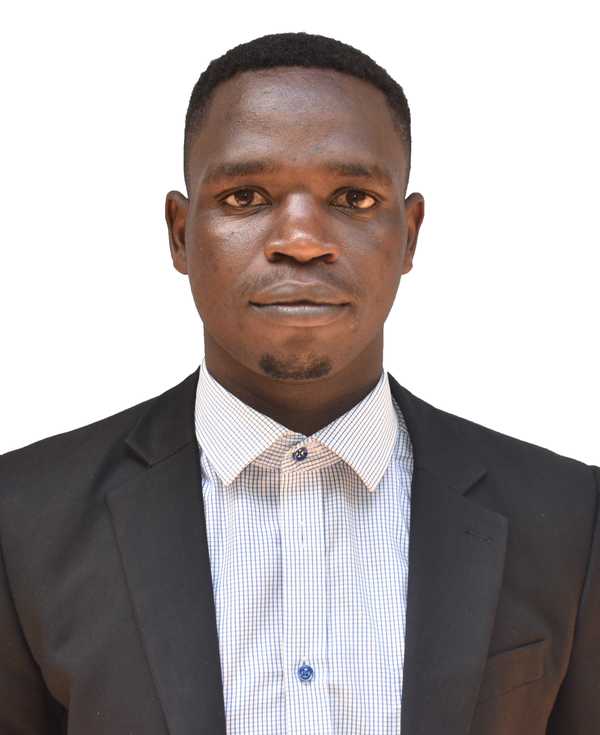
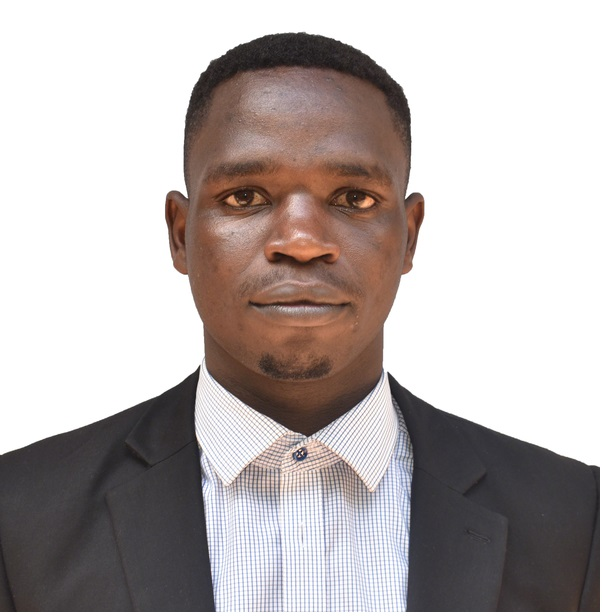
profile picture now updated

diff --git a/index.html b/index.html
@@ -3,9 +3,30 @@
 <head>
 <meta charset="UTF-8" />
 <meta name="viewport" content="width=device-width, initial-scale=1.0"/>
-<title>Jean Paul Niyonizeye — Portfolio</title>
+<!-- Primary Meta -->
+<meta name="title" content="NIYONIZEYE Jean Paul — Software Developer & CS Teacher">
+<meta name="description" content="Portfolio of Jean Paul, a software developer and computer science teacher. Building clean, purposeful software while shaping the next generation of developers.">
+
+<!-- Open Graph / Facebook / LinkedIn -->
+<meta property="og:type" content="website">
+<meta property="og:url" content="https://niyonizeyejeanpaul.vercel.app/">
+<meta property="og:title" content="NIYONIZEYE Jean Paul — Software Developer & CS Teacher">
+<meta property="og:description" content="Portfolio of Jean Paul, a software developer and computer science teacher. Building clean, purposeful software while shaping the next generation of developers.">
+<meta property="og:image" content="https://niyonizeyejeanpaul.vercel.app/og-image.png">
+
+<!-- Twitter -->
+<meta name="twitter:card" content="summary_large_image">
+<meta name="twitter:title" content="NIYONIZEYE Jean Paul — Software Developer & CS Teacher">
+<meta name="twitter:description" content="Portfolio of Jean Paul, a software developer and computer science teacher. Building clean, purposeful software while shaping the next generation of developers.">
+<meta name="twitter:image" content="https://niyonizeyejeanpaul.vercel.app/og-image.png">
+<title>Jean Paul Niyonizeye||Portfolio</title>
+
 <link href="https://fonts.googleapis.com/css2?family=Playfair+Display:wght@400;700;900&family=DM+Mono:wght@300;400;500&family=DM+Sans:wght@300;400;500&display=swap" rel="stylesheet"/>
 <link rel="stylesheet" href="style.css">
+<link rel="apple-touch-icon" sizes="180x180" href="apple-touch-icon.png">
+<link rel="icon" type="image/png" sizes="32x32" href="favicon-32x32.png">
+<link rel="icon" type="image/png" sizes="16x16" href="favicon-16x16.png">
+<link rel="manifest" href="site.webmanifest">
 </head>
 <body>
 
@@ -59,7 +80,7 @@
   <div class="hero-visual">
     <div class="avatar-frame">
       <div class="avatar-orbit"><div class="orbit-dot"></div></div>
-      <div class="avatar-circle"><img src="niyonizeye-jean-paul217012760.jpg" alt="" srcset="" width="350" height="350"></div>
+      <div class="avatar-circle"><img  src="niyonizeye-jean-paul217012760.jpg" alt="" srcset=""  height="350"></div>
     </div>
   </div>
 </section>
@@ -106,7 +127,7 @@
 
 <!-- EXPERIENCE -->
 <section id="experience">
-  <p class="section-label reveal">// 02. Experience</p>
+  <p class="section-label reveal"> 02. Experience</p>
   <h2 class="section-title reveal">Where I've<br><em>made an impact</em></h2>
   <div class="timeline">
     <div class="timeline-item">
@@ -182,7 +203,7 @@
       </div>
     </div>
     <div class="skill-group reveal">
-      <div class="skill-group-title">// Tools &amp; Platforms</div>
+      <div class="skill-group-title">Tools &amp; Platforms</div>
       <div class="skill-tags">
         <span class="tag">Git / GitHub</span>
         <span class="tag">VS Code</span>
@@ -196,7 +217,7 @@
 
 <!-- PROJECTS -->
 <section id="projects">
-  <p class="section-label reveal">// 04. Projects</p>
+  <p class="section-label reveal"> 04. Projects</p>
   <h2 class="section-title reveal">Things I've<br><em>built</em></h2>
   <div class="projects-grid">
     <div class="project-card reveal">
@@ -237,7 +258,7 @@
 
 <!-- CONTACT -->
 <section id="contact">
-  <p class="section-label reveal">// 05. Contact</p>
+  <p class="section-label reveal">05. Contact</p>
   <h2 class="section-title reveal">Let's work<br><em>together</em></h2>
   <p class="contact-subtitle reveal">
     Whether you have a project in mind, want to collaborate, or just want to connect — 
@@ -248,13 +269,17 @@
       <svg viewBox="0 0 24 24"><path d="M20 4H4c-1.1 0-2 .9-2 2v12c0 1.1.9 2 2 2h16c1.1 0 2-.9 2-2V6c0-1.1-.9-2-2-2zm0 4l-8 5-8-5V6l8 5 8-5v2z"/></svg>
       Email Me
     </a>
-    <a href="https://github.com/" target="_blank" class="contact-link">
+    <a href="https://github.com/Niyonizeye/" target="_blank" class="contact-link">
       <svg viewBox="0 0 24 24"><path d="M12 .297c-6.63 0-12 5.373-12 12 0 5.303 3.438 9.8 8.205 11.385.6.113.82-.258.82-.577 0-.285-.01-1.04-.015-2.04-3.338.724-4.042-1.61-4.042-1.61C4.422 18.07 3.633 17.7 3.633 17.7c-1.087-.744.084-.729.084-.729 1.205.084 1.838 1.236 1.838 1.236 1.07 1.835 2.809 1.305 3.495.998.108-.776.417-1.305.76-1.605-2.665-.3-5.466-1.332-5.466-5.93 0-1.31.465-2.38 1.235-3.22-.135-.303-.54-1.523.105-3.176 0 0 1.005-.322 3.3 1.23.96-.267 1.98-.399 3-.405 1.02.006 2.04.138 3 .405 2.28-1.552 3.285-1.23 3.285-1.23.645 1.653.24 2.873.12 3.176.765.84 1.23 1.91 1.23 3.22 0 4.61-2.805 5.625-5.475 5.92.42.36.81 1.096.81 2.22 0 1.606-.015 2.896-.015 3.286 0 .315.21.69.825.57C20.565 22.092 24 17.592 24 12.297c0-6.627-5.373-12-12-12"/></svg>
       GitHub
     </a>
-    <a href="https://linkedin.com/" target="_blank" class="contact-link">
+    <a href="https://www.linkedin.com/in/niyonizeye-jean-paul-9521571b9/" target="_blank" class="contact-link">
       <svg viewBox="0 0 24 24"><path d="M20.447 20.452h-3.554v-5.569c0-1.328-.027-3.037-1.852-3.037-1.853 0-2.136 1.445-2.136 2.939v5.667H9.351V9h3.414v1.561h.046c.477-.9 1.637-1.85 3.37-1.85 3.601 0 4.267 2.37 4.267 5.455v6.286zM5.337 7.433c-1.144 0-2.063-.926-2.063-2.065 0-1.138.92-2.063 2.063-2.063 1.14 0 2.064.925 2.064 2.063 0 1.139-.925 2.065-2.064 2.065zm1.782 13.019H3.555V9h3.564v11.452zM22.225 0H1.771C.792 0 0 .774 0 1.729v20.542C0 23.227.792 24 1.771 24h20.451C23.2 24 24 23.227 24 22.271V1.729C24 .774 23.2 0 22.222 0h.003z"/></svg>
       LinkedIn
+    </a>
+    <a href="https://www.linkedin.com/in/niyonizeye-jean-paul-9521571b9/" target="_blank" class="contact-link">
+      <svg viewBox="0 0 24 24"><path d="M20.447 20.452h-3.554v-5.569c0-1.328-.027-3.037-1.852-3.037-1.853 0-2.136 1.445-2.136 2.939v5.667H9.351V9h3.414v1.561h.046c.477-.9 1.637-1.85 3.37-1.85 3.601 0 4.267 2.37 4.267 5.455v6.286zM5.337 7.433c-1.144 0-2.063-.926-2.063-2.065 0-1.138.92-2.063 2.063-2.063 1.14 0 2.064.925 2.064 2.063 0 1.139-.925 2.065-2.064 2.065zm1.782 13.019H3.555V9h3.564v11.452zM22.225 0H1.771C.792 0 0 .774 0 1.729v20.542C0 23.227.792 24 1.771 24h20.451C23.2 24 24 23.227 24 22.271V1.729C24 .774 23.2 0 22.222 0h.003z"/></svg>
+      Instagram
     </a>
   </div>
 </section>
@@ -263,37 +288,7 @@
   <p>© 2025 Jean Paul Niyonizeye</p>
   <p>Computer Science Teacher &amp; Software Developer · Rwanda 🇷🇼</p>
 </footer>
-
-<script>
-  // Theme toggle
-  const html = document.documentElement;
-  const toggleBtn = document.getElementById('themeToggle');
-  const savedTheme = localStorage.getItem('theme');
-  if (savedTheme === 'light') html.classList.add('light');
-
-  toggleBtn.addEventListener('click', () => {
-    html.classList.toggle('light');
-    localStorage.setItem('theme', html.classList.contains('light') ? 'light' : 'dark');
-  });
-
-  // Custom cursor
-  const cursor = document.getElementById('cursor');
-  const ring = document.getElementById('cursorRing');
-  let mx = 0, my = 0, rx = 0, ry = 0;
-  document.addEventListener('mousemove', e => { mx = e.clientX; my = e.clientY; });
-  function animCursor() {
-    cursor.style.left = mx + 'px'; cursor.style.top = my + 'px';
-    rx += (mx - rx) * 0.12; ry += (my - ry) * 0.12;
-    ring.style.left = rx + 'px'; ring.style.top = ry + 'px';
-    requestAnimationFrame(animCursor);
-  }
-  animCursor();
-
-  // Scroll reveal
-  const observer = new IntersectionObserver(entries => {
-    entries.forEach(e => { if (e.isIntersecting) e.target.classList.add('visible'); });
-  }, { threshold: 0.15 });
-  document.querySelectorAll('.reveal, .timeline-item').forEach(el => observer.observe(el));
-</script>
+<script src="script.js"></script>
 </body>
 </html>
+  

diff --git a/script.js b/script.js
@@ -1,0 +1,30 @@
+// Theme toggle
+  const html = document.documentElement;
+  const toggleBtn = document.getElementById('themeToggle');
+  const savedTheme = localStorage.getItem('theme');
+  if (savedTheme === 'light') html.classList.add('light');
+
+  toggleBtn.addEventListener('click', () => {
+    html.classList.toggle('light');
+    localStorage.setItem('theme', html.classList.contains('light') ? 'light' : 'dark');
+  });
+
+  // Custom cursor
+  const cursor = document.getElementById('cursor');
+  const ring = document.getElementById('cursorRing');
+  let mx = 0, my = 0, rx = 0, ry = 0;
+  document.addEventListener('mousemove', e => { mx = e.clientX; my = e.clientY; });
+  function animCursor() {
+    cursor.style.left = mx + 'px'; cursor.style.top = my + 'px';
+    rx += (mx - rx) * 0.12; ry += (my - ry) * 0.12;
+    ring.style.left = rx + 'px'; ring.style.top = ry + 'px';
+    requestAnimationFrame(animCursor);
+  }
+  animCursor();
+
+  // Scroll reveal
+  const observer = new IntersectionObserver(entries => {
+    entries.forEach(e => { if (e.isIntersecting) e.target.classList.add('visible'); });
+  }, { threshold: 0.15 });
+  document.querySelectorAll('.reveal, .timeline-item').forEach(el => observer.observe(el));
+

diff --git a/style.css b/style.css
@@ -216,6 +216,10 @@
     position: relative;
     overflow: hidden;
   }
+
+  .avatar-circle img {
+    object-fit: cover;
+  }
   .avatar-circle::before {
     content: '';
     position: absolute;
